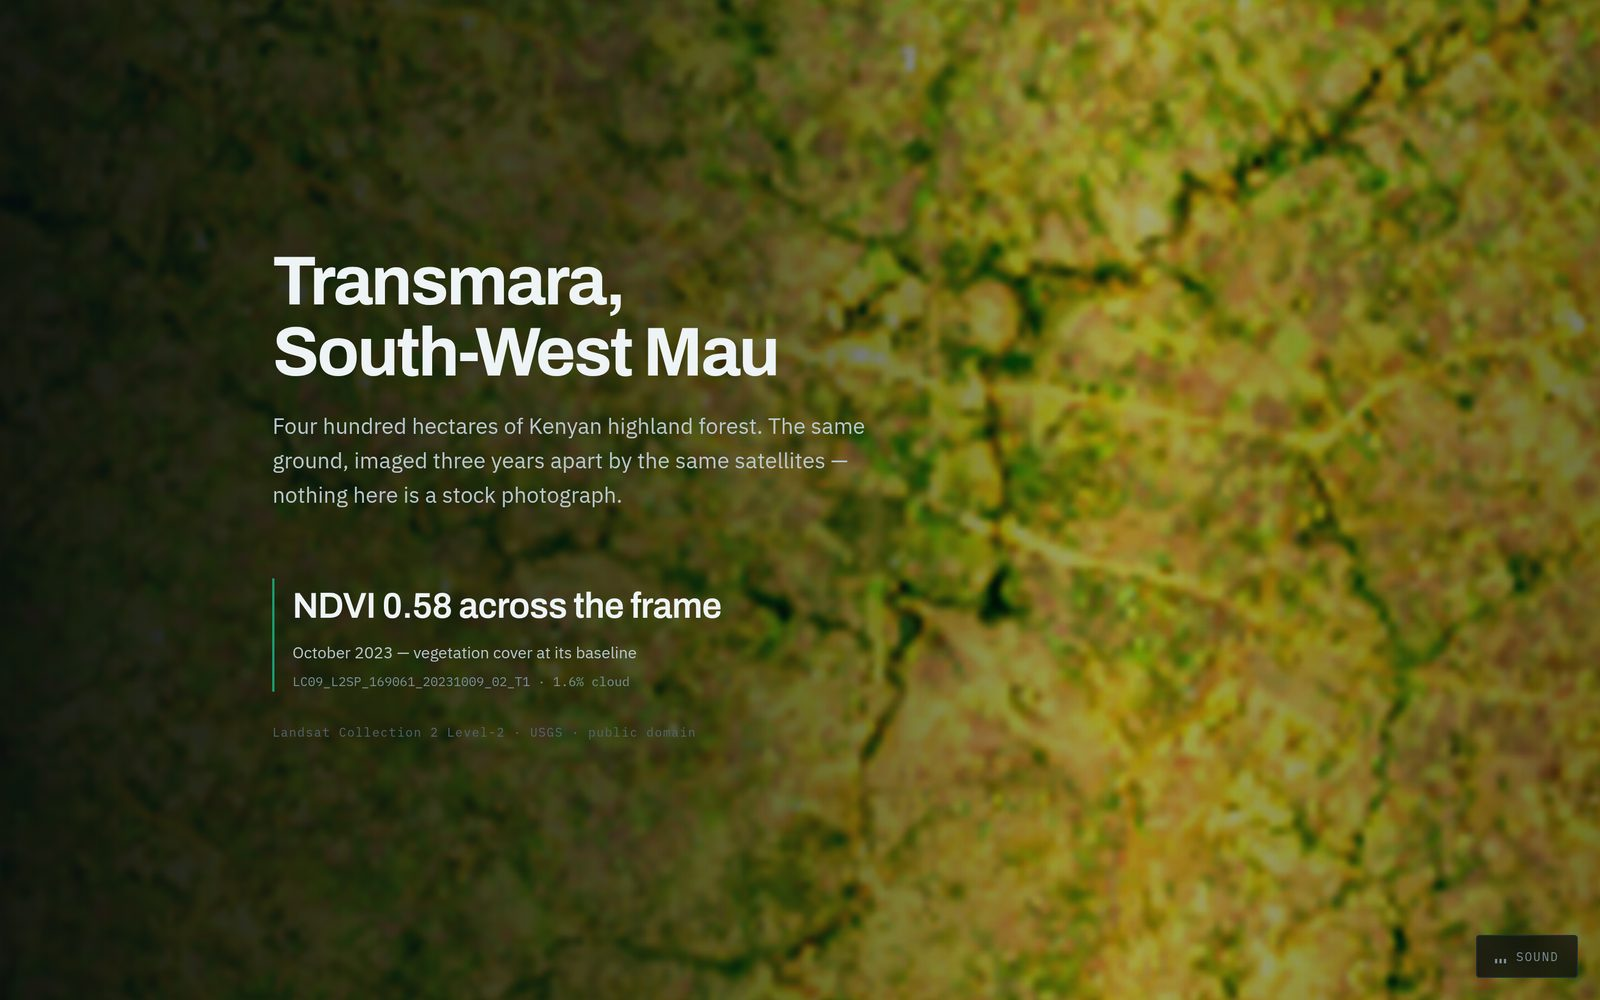
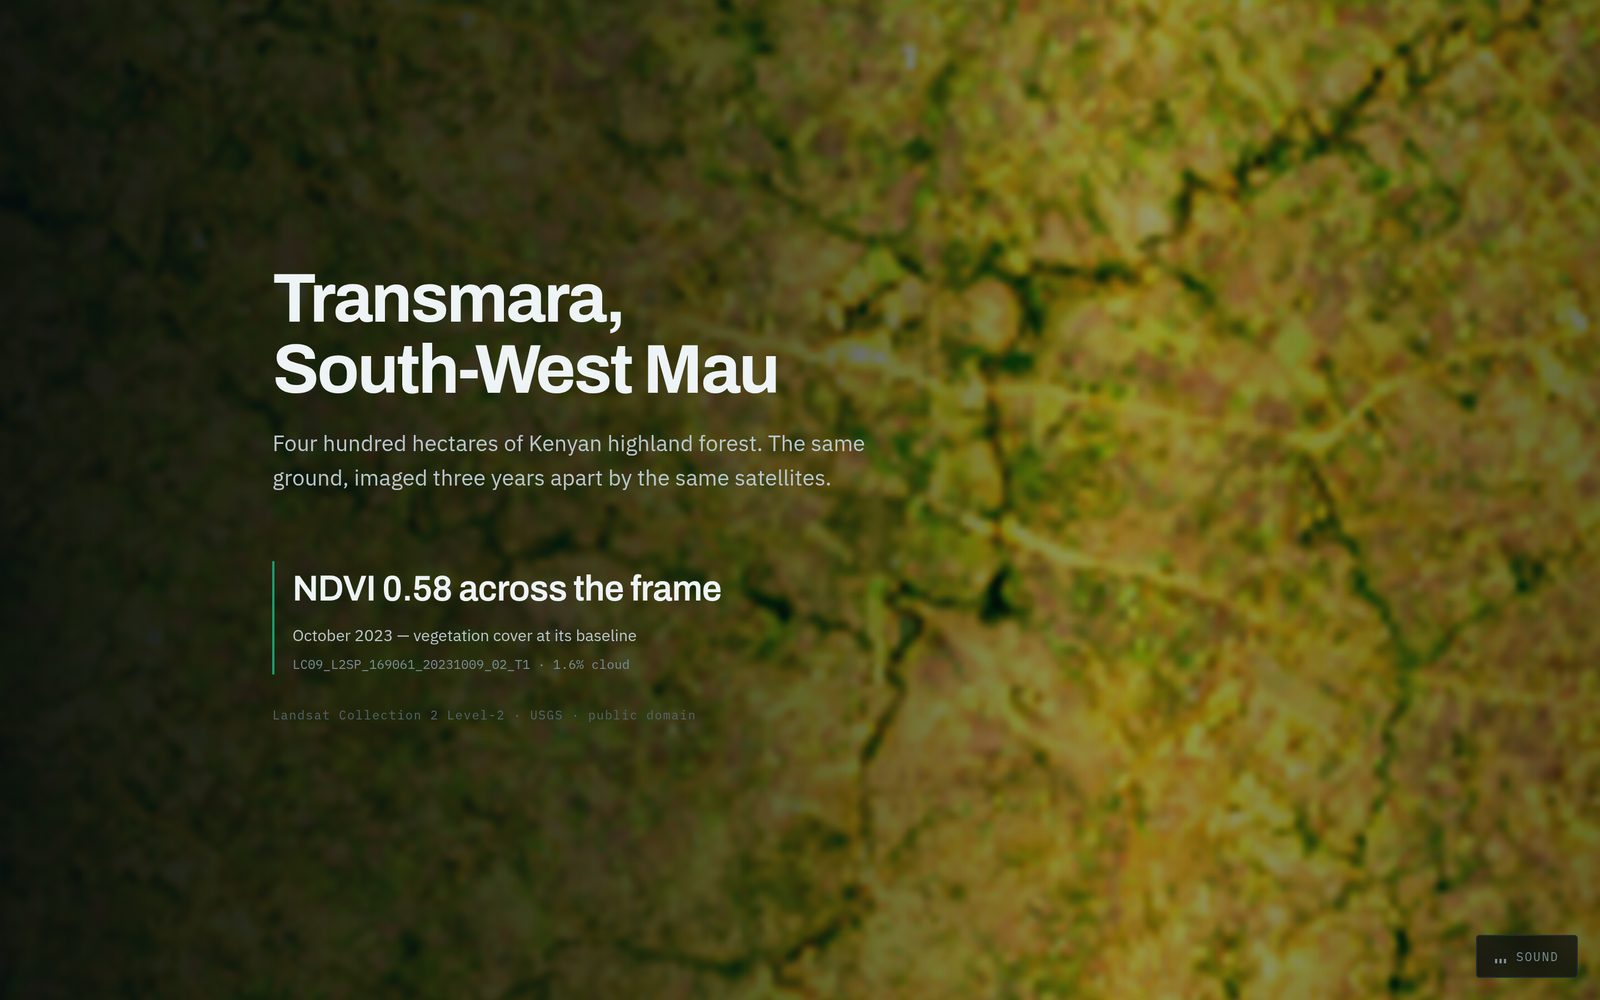
Drop the stock-photograph line from the imagery caption
The scene identifier and cloud fraction are already on screen; stating what
the image is not adds nothing the evidence does not already show. Screenshot
recaptured to match.

diff --git a/apps/web/src/app/page.tsx b/apps/web/src/app/page.tsx
@@ -83,7 +83,7 @@ export default async function Page({
       {isMau ? (
         <Descent
           title="Transmara, South-West Mau"
-          lede="Four hundred hectares of Kenyan highland forest. The same ground, imaged three years apart by the same satellites — nothing here is a stock photograph."
+          lede="Four hundred hectares of Kenyan highland forest. The same ground, imaged three years apart by the same satellites."
           before={{
             src: "/evidence/mau-before-truecolour.webp",
             caption: "October 2023 — vegetation cover at its baseline",

diff --git a/README.md b/README.md
@@ -54,8 +54,7 @@ month under 75% valid coverage can never raise an alert.
 
 <img src="docs/screenshots/03-landsat.jpg" width="100%" alt="Real Landsat imagery of the Transmara forest block with its scene identifier">
 
-*Real imagery, with the scene ID and cloud fraction on screen. Nothing here is
-a stock photograph.*
+*Real imagery, with the scene ID and cloud fraction on screen.*
 
 <img src="docs/screenshots/08-chart.png" width="100%" alt="Forty-five months of monthly mean NDVI, with gaps left as gaps">
 
